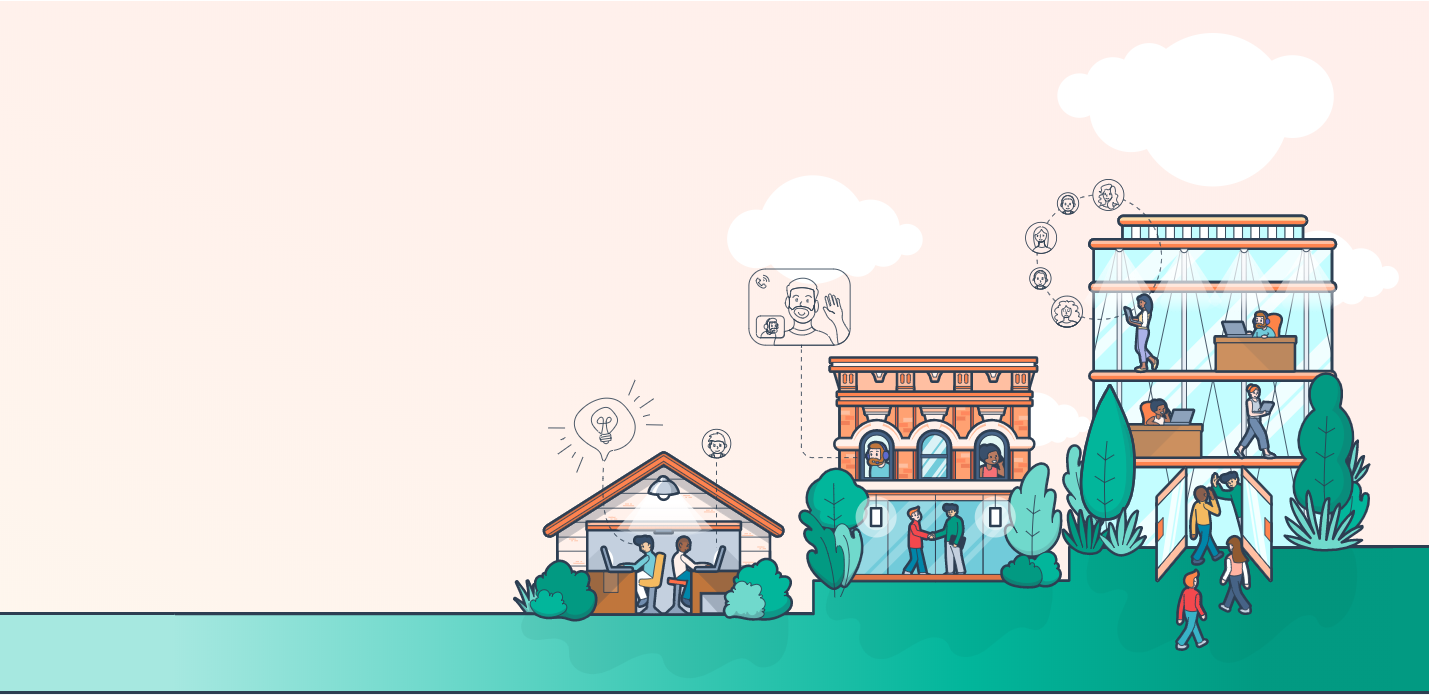
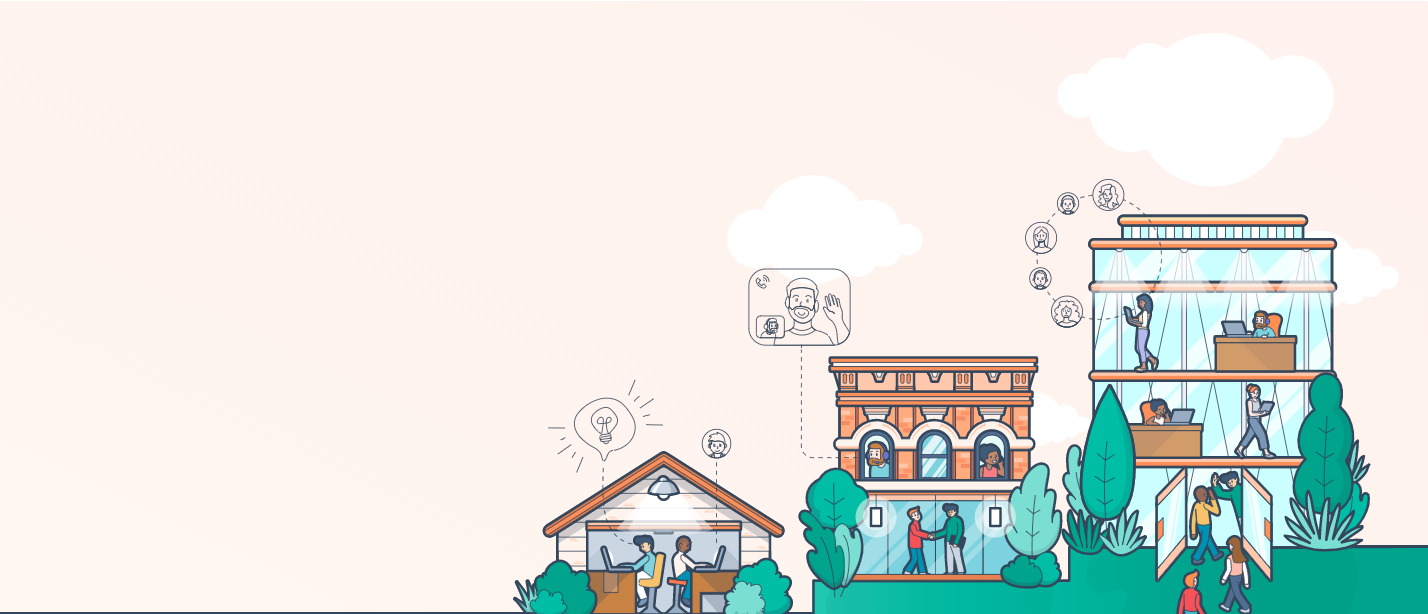
Inizio sezione 3 colonne

Changed region(s): [[0.0, 0.2476, 1.0, 1.0]]

diff --git a/css/style.css b/css/style.css
@@ -6,11 +6,12 @@
 
 body {
   font-family: AvenirNext, "Helvetica Neue", Helvetica, Arial, sans-serif;
+  color: #33475B;
 }
 
 .container {
-  padding-left: 100px;
-  padding-right: 100px;
+  padding-left: 160px;
+  padding-right: 160px;
 }
 
 header {
@@ -117,12 +118,13 @@ nav::after {
 
 .banner {
   background-color: #FFF2EF;
-  height: 900px;
+  height: 650px;
   color: #33475b;
   background-image: url(../img/jumbotron.png);
   background-repeat: no-repeat;
   background-position: 100%;
   background-size: cover;
+
   }
 
 .title {
@@ -154,17 +156,142 @@ nav::after {
   font-size: 15px;
 }
 
-.cover {
+.sezione-azzurra {
   height: 110px;
   background-color: #AFEBE4;
   width: 100%;
   border-bottom: 4px solid #33475B;
   border-top: 4px solid #33475B;
-  margin-top: -110px;
+}
+.sezione-cubo {
+  height: 450px;
+  width: 62%;
+  margin: auto;
+  text-align: center;
+  color: #33475B;
+}
+
+.sezione-cubo img {
+  width: 40%;
+  margin-top: 40px;
+}
+
+.sezione-centrale {
+  width: 100%;
+  height: 3000px;
+  background-color:#F4F9FD;
+}
+
+.sezione-cubo h1 {
+  font-size: 35px;
+  margin-bottom: 20px;
+}
+
+.sezione-crm {
+  background-color: white;
+  width: 100%;
+  height: 350px;
+  box-shadow: 1px 1px 1px 1px #E8EEF3;}
+
+.sezione-crm::after{
+  content: '';
+  display: table;
+  clear: both;
+}
+
+.sezione-crm-right{
+  float: left;
+  width: 70%;
+  height: 100%;
+}
+
+.sezione-crm-left {
+  float: left;
+  width: 30%;
+  height: 100%;
+  position: relative;
 
 }
-.prova {
-  background-color: blue;
-  height: 100px;
+.sezione-crm-left .learn-more {
+  width: 40%;
+  position: absolute;
+  left: 50%;
+  top: 50%;
+  transform: translate(-50% , -50%);
+}
+
+.learn-more button {
+  border: none;
+  background-color: #FF7A59;
+  color: white;
+  padding: 20px 30px;
+  font-size: 15px;
+  border-radius: 5px;
+  margin-top: 20px;
+  font-weight: bold;
+}
+
+.sezione-crm-right h1 {
+  margin-top: 80px;
+  margin-bottom: 30px;
+}
+
+.sezione-crm-right p {
+  width: 80%;
+  line-height: 30px;
+  font-weight: 700;
+  margin-bottom: 20px;
+}
+
+.sezione-crm-right h3 {
+  font-weight:800;
+  margin-bottom: 30px;
+}
+
+.sezione-crm-right ul li {
+  display: inline;
+  margin-right: 20px;
+  font-weight: bold;
+}
+.sezione-crm-right ul li i {
+  color: #FF7A59;
+  margin-right: 10px;
+}
+
+.tre-colonne {
+  margin-top: 50px;
   width: 100%;
+  height: 600px;
+}
+
+.tre-colonne .left {
+  float: left;
+  background-color: green;
+  width: 30%;
+  height: 100px;
+
+}
+
+.tre-colonne .right {
+  background-color: red;
+  float: left;
+  width: 30%;
+  height: 100px;
+
+
+}
+.tre-colonne .central {
+  background-color: yellow;
+  float: left;
+  width: 30%;
+  height: 100px;
+  margin-left: 5%;
+  margin-right: 5%;
+}
+
+.tre-colonne::after {
+  content: '';
+  display: table;
+  clear: both;
+
 }

diff --git a/index.html b/index.html
@@ -50,10 +50,48 @@
      </div>
    </main>
 
-   <div class="cover"></div>
-   <div class="prova">
-     
-   </div>
+   <div class="sezione-azzurra"></div>
+   <div class="sezione-centrale container">
 
+       <div class="sezione-cubo">
+         <img src="img\Integrations_Illustration_2x.png" alt="cubo">
+         <h1>Powerful alone. Better together.</h1>
+         <p>HubSpot offers a full stack of software for marketing, sales, and customer service, with a completely free CRM at its core. They’re powerful alone — but even better when used together.</p>
+       </div>
+       <div class="sezione-crm">
+         <div class="sezione-crm-left">
+           <div class="learn-more">
+           <img src="img\CRM-Illustration.svg" alt="CRM">
+           <button type="button" name="button">Learn more</button>
+         </div>
+
+         </div>
+         <div class="sezione-crm-right">
+           <h1>Free HubSpot CRM</h1>
+           <p>Everything you need to organize, track, and build better relationships with leads and customers. Yes, it's 100% free. Forever.</p>
+           <h3>POPULAR FEATURE</h3>
+            <ul>
+              <li><i class="fas fa-check-circle"></i>Contact Insight</li>
+              <li><i class="fas fa-check-circle"></i>Deals</li>
+              <li><i class="fas fa-check-circle"></i>Task</li>
+            </ul>
+         </div>
+       </div>
+       <div class="tre-colonne">
+         <div class="left">
+
+         </div>
+         <div class="central">
+
+         </div>
+         <div class="right">
+
+         </div>
+       </div>
+
+
+
+
+     </div>
   </body>
 </html>
